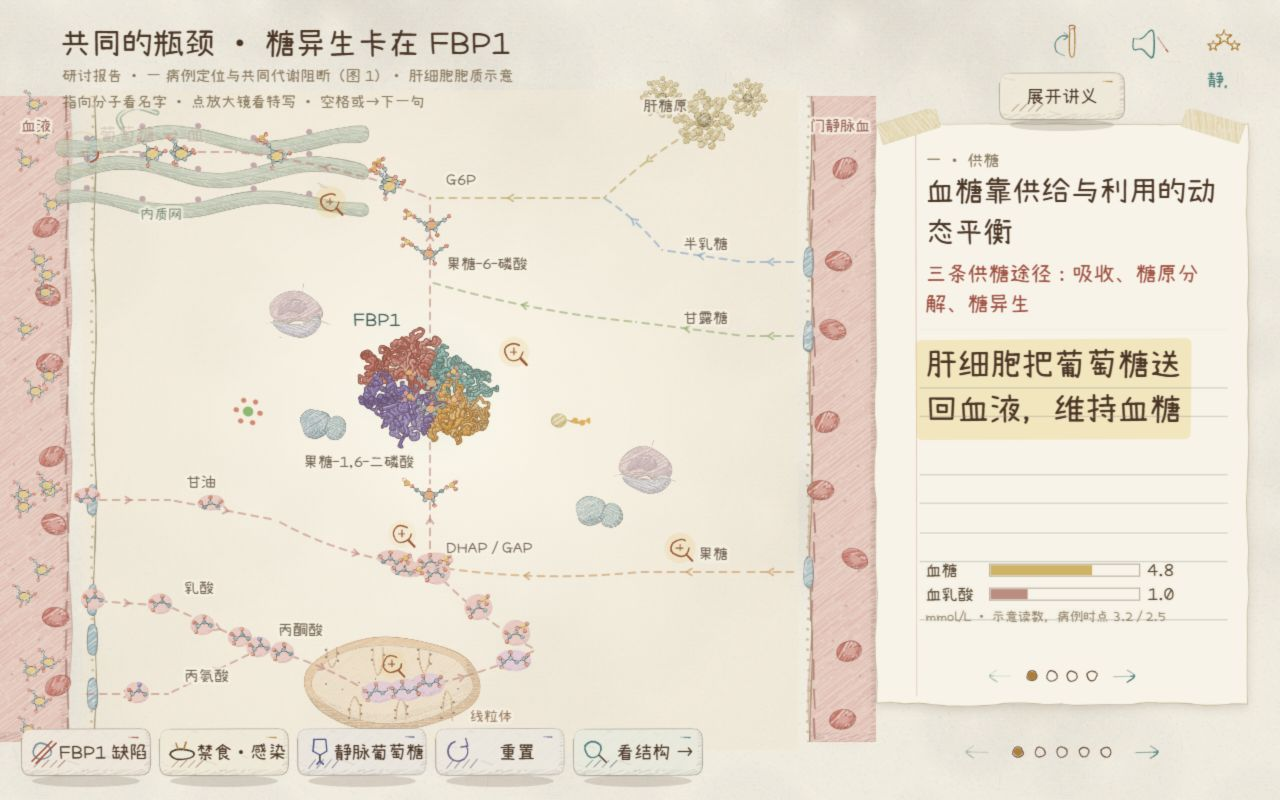
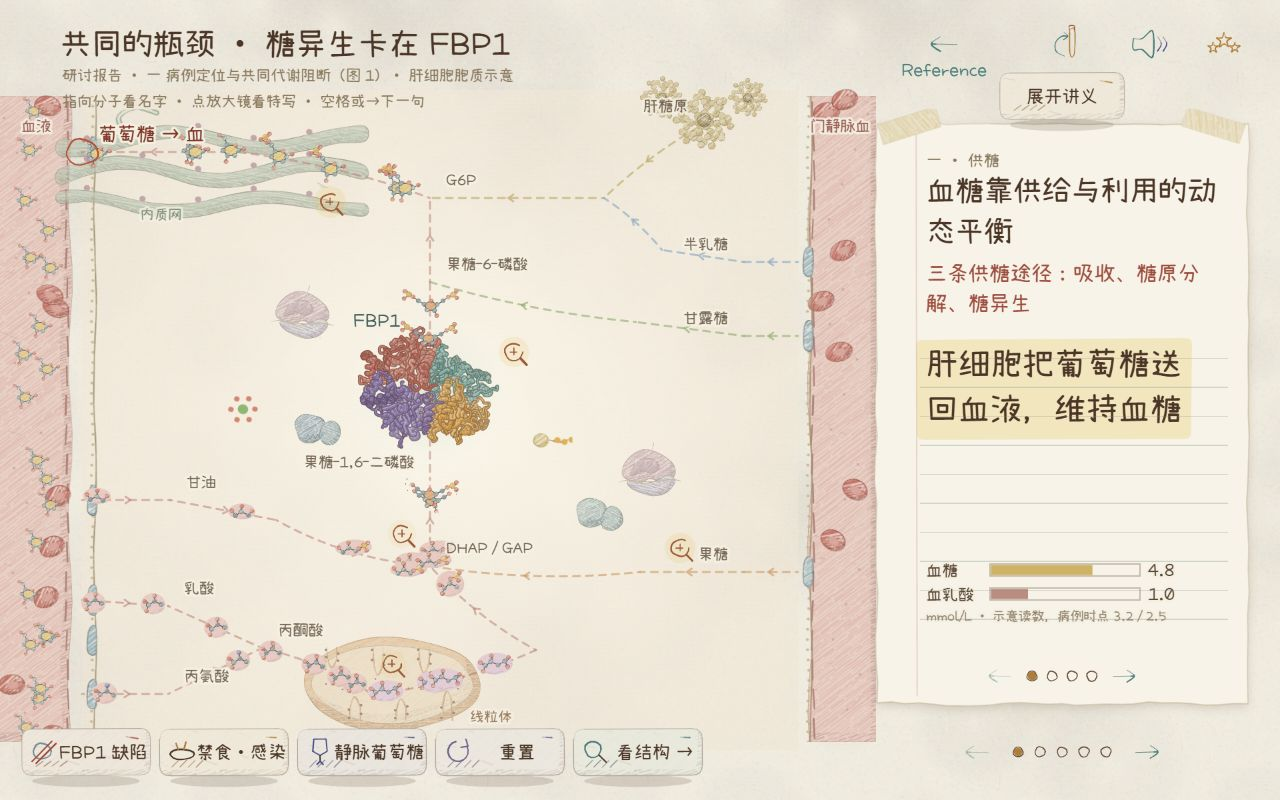
Add matching navigation between Reference and Bio experiments

diff --git a/experiments/bio/src/engine/controls.js b/experiments/bio/src/engine/controls.js
@@ -146,11 +146,11 @@ export function drawMark(c, type, { x = 0, y = 0, scale = 0.62, hover = 0, on = 
 }
 
 /**
- * A real <button> for keyboard, focus and names; the canvas draws its mark and label.
+ * A real button or navigation link for keyboard, focus and names; canvas draws its mark and label.
  * The handwritten hint writes in on hover/focus and erases from its current ink on leave.
  */
 export class Control {
-  constructor(host, { id, label, hint = label, mark = "info", art = null, x = 0, y = 0, w = 64, h = 60, depth = null, onClick, isOn, isPressed = isOn, labelAt = "below", labelSize = 17, labelOffset = [0, 0], scale = 0.6, labelColor = P.teal, always = false }) {
+  constructor(host, { id, label, hint = label, mark = "info", art = null, x = 0, y = 0, w = 64, h = 60, depth = null, href, onClick, isOn, isPressed = isOn, labelAt = "below", labelSize = 17, labelOffset = [0, 0], scale = 0.6, labelColor = P.teal, always = false }) {
     this.host = host;
     this.mark = mark;
     this.art = art;
@@ -174,8 +174,9 @@ export class Control {
     this.resp = new Spring(0, { stiffness: 130, damping: 15 });
     this.label = new HandLabel(hint, { size: labelSize, color: labelColor, align: labelAt === "right" ? "left" : labelAt === "left" ? "right" : "center", write: 0.5, erase: 0.25 });
     this.label.ink.snap(always);
-    const el = document.createElement("button");
-    el.type = "button";
+    const el = document.createElement(href ? "a" : "button");
+    if (href) el.href = href;
+    else el.type = "button";
     el.className = "hit";
     el.id = id;
     el.setAttribute("aria-label", label);
@@ -189,7 +190,10 @@ export class Control {
     el.addEventListener("blur", () => (this.focus = false));
     el.addEventListener("click", (e) => {
       e.stopPropagation();
-      if (this.disabled || !this.host.interactive) return;
+      if (this.disabled || !this.host.interactive) {
+        e.preventDefault();
+        return;
+      }
       this.resp.kick(-6);
       this.onClick?.(e);
       if (this.isPressed) el.setAttribute("aria-pressed", String(!!this.isPressed()));

diff --git a/experiments/bio/src/engine/app.js b/experiments/bio/src/engine/app.js
@@ -55,6 +55,11 @@ export class App {
   }
   buildNav() {
     const host = { app: this, get interactive() { return true; } };
+    this.referenceLink = new Control(host, {
+      id: "nav-reference", label: "返回 Reference", hint: "Reference",
+      href: "../../index.html", mark: "prev", x: W - 336, y: 44, w: 112, h: 80,
+      labelAt: "below", labelSize: 17, labelOffset: [0, -18], always: true,
+    });
     this.homeBtn = new Control(host, { id: "nav-home", label: "返回肝小叶大厅", hint: "回到大厅", mark: "home", x: 54, y: 44, labelAt: "below", onClick: () => this.go("hall") });
     this.soundBtn = new Control(host, {
       id: "nav-sound",
@@ -94,7 +99,7 @@ export class App {
       y: 44,
       onClick: () => this.replay(),
     });
-    this.nav = [this.homeBtn, this.replayBtn, this.soundBtn, this.stillBtn];
+    this.nav = [this.referenceLink, this.homeBtn, this.replayBtn, this.soundBtn, this.stillBtn];
     for (const n of this.nav) n.attach(this.navLayer);
   }
   bind() {
@@ -107,7 +112,7 @@ export class App {
       const p = toLocal(e);
       this.camera.point(p.x / W * 2 - 1, p.y / H * 2 - 1);
       const z = this.zoom;
-      this.current?.pointer?.((p.x - z.cx) / z.s + z.cx, (p.y - z.cy) / z.s + z.cy, e.buttons, !!e.target.closest?.("button"));
+      this.current?.pointer?.((p.x - z.cx) / z.s + z.cx, (p.y - z.cy) / z.s + z.cy, e.buttons, !!e.target.closest?.("button, a"));
     });
     addEventListener("pointerup", () => this.current?.release?.());
     addEventListener("pointercancel", () => this.current?.release?.());
@@ -117,7 +122,7 @@ export class App {
     });
     this.stage.addEventListener("pointerdown", (e) => {
       this.foley.unlock();
-      if (e.target.closest("button") || !this.current?.interactive) return;
+      if (e.target.closest("button, a") || !this.current?.interactive) return;
       const p = toLocal(e),
         z = this.zoom;
       this.current.click?.((p.x - z.cx) / z.s + z.cx, (p.y - z.cy) / z.s + z.cy);

diff --git a/primitives/illustrated-control.js b/primitives/illustrated-control.js
@@ -91,7 +91,18 @@ export function drawControlMark(
       width: (opts.width ?? 1.5) * 1.25,
       progress: Math.min(opts.progress ?? 1, progress),
     });
-  if (type === "doze") {
+  if (type === "bio") {
+    // A compact molecule: bonds meet the rings; hover flexes only the upper bond.
+    const nodes = [[-18, 12, C.teal], [0, -16 - h * 3, C.blue], [20, 10, C.honey]];
+    p.line([[-14, 6], [-4, -10 - h * 3]], { color: C.teal, width: 1.7 });
+    p.line([[5, -10 - h * 3], [16, 4]], { color: C.blue, width: 1.7 });
+    p.line([[-11, 12], [13, 10]], { color: C.honey, width: 1.5 });
+    for (const [nx, ny, color] of nodes)
+      p.line(Array.from({ length: 13 }, (_, i) => {
+        const a = i / 12 * Math.PI * 2;
+        return [nx + Math.cos(a) * 7, ny + Math.sin(a) * 7];
+      }), { color, width: 1.8 });
+  } else if (type === "doze") {
     for (const [i, xx, yy, size] of [
       [0, -18, 14, 26],
       [1, 7, -5, 19],

diff --git a/src/main.js b/src/main.js
@@ -436,6 +436,7 @@ async function init() {
   }));
   controls.push(...[
     ['nav-gallery','gallery','gallery'],['nav-characters','components','character lab'],
+    ['nav-bio','bio','bio lab'],
   ].map(([id,type,label])=>new SketchLink($(id),{type,label,reduced:()=>reduced})));
   makeCast(); resize(); $('loading').remove();
   for (const button of document.querySelectorAll('.toolbar button')) button.disabled = false;

diff --git a/index.html b/index.html
@@ -17,6 +17,7 @@
   <nav class="study-navigation" aria-label="study pages">
     <a id="nav-gallery" href="/lab.html">gallery</a>
     <a id="nav-characters" href="/components.html">character lab</a>
+    <a id="nav-bio" href="/experiments/bio/block.html">bio lab</a>
   </nav>
   <div id="loading" role="status">drawing…</div>
   <aside class="specimen" aria-label="选中角色信息">

diff --git a/experiments/bio/src/styles.css b/experiments/bio/src/styles.css
@@ -69,7 +69,7 @@ body {
 .notes-layer {
   transform-origin: 0 0;
 }
-button.hit {
+.hit {
   position: absolute;
   border: 0;
   padding: 0;
@@ -85,7 +85,7 @@ button.hit {
 button.hit:disabled {
   cursor: default;
 }
-button.hit[hidden] {
+.hit[hidden] {
   display: none;
 }
 .note {

diff --git a/docs/BIO_EXPERIMENTS.md b/docs/BIO_EXPERIMENTS.md
@@ -13,7 +13,9 @@
 | [Block](http://127.0.0.1:5184/experiments/bio/block.html) | 肝细胞碳流、正常/患儿、进食/禁食感染、补糖；圆圈进入反应特写，特写结束后重播或看下一处；“看结构”进入 Room |
 | [Room](http://127.0.0.1:5184/experiments/bio/room.html) | FBP1 四聚体，拖动旋转；底物、水解、AMP、突变、重置；“共同瓶颈”返回 Block |
 
-两页支持 `→` / 空格 / PageDown 下一句，`←` / PageUp 上一句，Home 回第一步，T 展开/收起讲义。Block 特写中 Esc 退出。顶部重画、声音、减少动画是相同的简笔语言；声音和动作偏好仍使用源项目的 `fbp1-sound` / `fbp1-still` 本地键。两页都没有注册原大厅，顶部大厅按钮隐藏；Room 无特写时 Esc 没有页面跳转。UI-lab 其它入口从 README 访问。
+从 [Reference](http://127.0.0.1:5184/) 左上角的分子简笔选项「bio lab」进入 Block，再通过「看结构」进入 Room。两页顶部均有常驻的左箭头与「Reference」标签，返回 `/index.html`；直接打开 Bio 或刷新后也可使用，不依赖浏览历史。入口与返回均为真实链接，支持 Tab 聚焦、Enter 打开及浏览器原生链接操作。
+
+两页支持 `→` / 空格 / PageDown 下一句，`←` / PageUp 上一句，Home 回第一步，T 展开/收起讲义。Block 特写中 Esc 退出。顶部重画、声音、减少动画是相同的简笔语言；声音和动作偏好仍使用源项目的 `fbp1-sound` / `fbp1-still` 本地键。两页都没有注册原大厅，原顶部大厅按钮隐藏；Room 无特写时 Esc 没有页面跳转。
 
 原构图为 1280×800，保持比例适配窗口。窄屏会缩小全页并提示横屏，不是已经实现的移动端重排，不能据无横向溢出声称文字和点击区已适合手机。
 
@@ -24,7 +26,8 @@
 - `public/` 只带运行所需的小赖字体子集和 OFL 全文；`references/` 带完整源字体与三份 PDB；`scripts/` 带字体/结构生成脚本；`tests/` 带闭包内的 20 份原测试。
 - 不复制原 `.git`、`node_modules`、`dist`、输出目录、报告 PDF/DOCX、大厅入口和其它场景。两页未加载 `hanzi.json`，未带入无用笔画数据或其生成脚本。
 - HTML、CSS 改为副本内的相对 URL；入口去掉 JS 的 CSS import（HTML 已加载），JSON 改为原生 `with { type: "json" }`，移除 Vite 专属的 `import.meta.env.DEV` 调试挂载。需要支持 JSON import attributes 的现代浏览器。
-- 自查修复 `Control.update`：步骤/键盘改变模型时同步 `aria-pressed`；增加独立 `isPressed`，让减少动画按钮的语义与 `reduced` 对应，而保留原 `isOn` 的绘图状态。新增 1 项本地回归。总计复制 86 个源文件，7 个有记录的适配/修正，其余 79 个按字节保存。
+- 自查修复 `Control.update`：步骤/键盘改变模型时同步 `aria-pressed`；增加独立 `isPressed`，让减少动画按钮的语义与 `reduced` 对应，而保留原 `isOn` 的绘图状态。新增 1 项本地回归。初次复制 86 个源文件，7 个有记录的适配/修正，其余 79 个按字节保存。后续导航适配见清单的 `changes`，原始哈希保持不变。
+- UI-lab 导航复用 Reference 的 `SketchLink` 写擦与焦点标记；分子图标是三环/三键的简笔符号。Bio `Control` 的可选 `href` 生成语义链接，返回选项复用已有 `prev` 笔迹和同色标签；DOM 命中与 Canvas 使用同一舞台缩放，链接指针不会落到场景点击/旋转处理。两套引擎通过 URL 连接，Bio 不加载旧 runtime。
 - UI-lab 静态服务器增加 WOFF2 MIME；其它原作、工具和场景代码不因导入修改。服务无热更新，修改后主动刷新；修改服务器后重启。
 - `.gitattributes` 为副本关闭文本行尾转换，保证干净 checkout 的字节仍符合清单；保留 PDB 固定列空格和许可原文，PDB 作为数据不输出常规文本 diff。
 

diff --git a/docs/VALIDATION.md b/docs/VALIDATION.md
@@ -1,6 +1,14 @@
 # 当前验证与审核方法
 
-当前验证日期 2026-10-09，范围为 Bio Block/Room 源码迁入、静态服务适配、文档与语义状态修正。完整三稿、Gallery/中文页的记录是标注日期的既有基线，不视为本轮重测。原作 vendor 与 assets 未修改。
+当前验证日期 2026-10-09，最新范围为 Reference → Bio 入口和两页返回导航；同日此前的导入检查保留其明确范围。完整三稿、Gallery/中文页的记录是标注日期的既有基线，不视为本轮重测。原作 vendor 与 assets 未修改。
+
+## Reference / Bio 往返导航
+
+- Reference 新增三环/三键分子简笔图标，复用 `SketchLink` 的低频笔稿、局部 hover 响应、标签写擦和键盘焦点线。两页返回复用 Bio `prev` 笔迹和小赖常驻标签；不引入新的标准 navbar。返回位于顶部标题与重画之间，不遮标题，点击区覆盖图标及标签。
+- 实际浏览器检查 1280×800 与 390×844：Reference 鼠标进入 Block、Enter 进入/返回、Block → Room → Reference、Room 直接打开后的返回、静音和减少动画偏好跨页保留。恢复测试前声音开/减少动画关；窄屏无新增横向溢出。Bio 仍整体缩小，返回点击区也缩小，未修复既有移动端可用性限制。
+- 当前回归为 Node 55 项与正式 Bio 133 项通过；清单 87 个哈希、193 条资源/模块依赖通过。旧 `.planning/` checkout 被初次 Vitest 收集导致重复计数，已将 `test:bio` 的 root 限定为 `experiments/bio`，不把重复测试计入结果。没有为简单导航新增镜像测试，关键证据为浏览器真实往返与焦点操作。
+- 自查发现初版左上返回遮挡源标题，已调整到顶部留白；检查共享 Control 的按钮行为、原生链接默认导航、指针防穿透、相对 URL、字体字符覆盖与来源哈希，未发现阻止提交的问题。图工具本会话未提供，逐文件差异与实际输入流代替；未改源目录/vendor/assets。
+- 一次加载完成等待发生超时，后续页面已实际加载并完成交互，超时未记为通过。浏览器捕获 error/warn 为空。当前桌面图为 [Reference 导航](../research/bio-reference-navigation.jpg)、[Block](../research/bio-block.jpg)、[Room](../research/bio-room.jpg)。旧导入图由 Git 保存。
 
 ## 本轮 Bio 结果与自查
 

diff --git a/README.md b/README.md
@@ -40,7 +40,7 @@ npm start
 | [Bio Room](http://127.0.0.1:5184/experiments/bio/room.html) | 当前原创参考：FBP1 结构、拖动旋转、位点、水解、AMP 与突变 |
 | [Gallery](http://127.0.0.1:5184/demos/gallery.html) / [Lab](http://127.0.0.1:5184/lab.html) | 同一个原创庭院：空间、物件交互、三种步态、逐笔开场、擦除重绘、极简选项 |
 | [绘制小样](http://127.0.0.1:5184/scenes/studio.html)                                        | 局部笔触、固定/活轮廓、手写、Foley 的检查台                            |
-| [Reference](http://127.0.0.1:5184/)                                                         | 原图集和原动作的最小还原，没有完整棋类规则                             |
+| [Reference](http://127.0.0.1:5184/)                                                         | 原图集和原动作的最小还原；左上角「bio lab」进入 Bio，两页均可返回；没有完整棋类规则 |
 | [Characters](http://127.0.0.1:5184/components.html)                                         | 十二个原角色的部件、睡眠、紧张与简化搬运实验                           |
 | [中文字样](http://127.0.0.1:5184/demos/chinese-type.html) / [双字体](http://127.0.0.1:5184/demos/chinese-pair.html) / [笔迹](http://127.0.0.1:5184/demos/chinese-ink.html) / [便笺](http://127.0.0.1:5184/demos/chinese-notes.html) | 小赖与悠哉实页对照、三字体字样、有序笔画写擦和便笺组合；[说明](docs/CHINESE_TYPE.md) |
 

diff --git a/experiments/bio/README.md b/experiments/bio/README.md
@@ -2,7 +2,7 @@
 
 这是 UI-lab 内的独立 Block/Room 源码副本，不包含 bio 原项目大厅。源提交和逐文件差异在 [source-manifest.json](source-manifest.json)。完整说明见 [docs/BIO_EXPERIMENTS.md](../../docs/BIO_EXPERIMENTS.md)，来源与许可见 [PROVENANCE](../../docs/PROVENANCE.md)。
 
-在 UI-lab 根目录运行 `npm ci`、`npm start`，打开 `/experiments/bio/block.html` 或 `/experiments/bio/room.html`。无需源项目目录、Vite 或构建产物；浏览器须支持 JSON import attributes。页面互相导航，UI-lab 其它页面从根 README 进入。
+在 UI-lab 根目录运行 `npm ci`、`npm start`，从 Reference（`/`）左上角「bio lab」进入，或直接打开 `/experiments/bio/block.html`、`/experiments/bio/room.html`。无需源项目目录、Vite 或构建产物；浏览器须支持 JSON import attributes。两页互相导航，顶部常驻「← Reference」返回入口页。
 
 根命令：`npm run test:bio`、`npm run check:bio`、`npm run bio:structure`、`npm run bio:font`。改文案后重新生成字体子集；原静态文件需要刷新，服务器代码修改需要重启。
 
